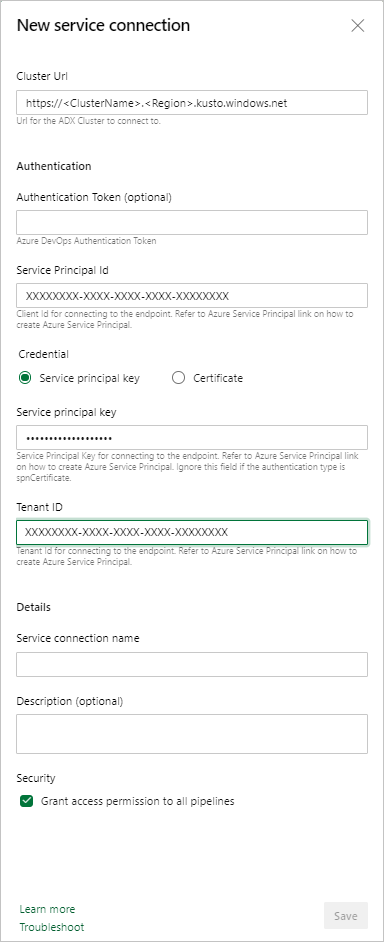
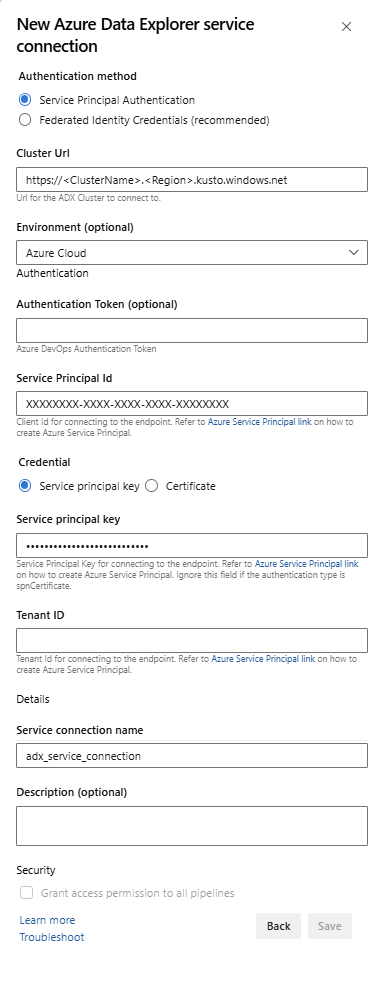
Added documentation for latest auth changes in ADO extension.

diff --git a/data-explorer/devops.md b/data-explorer/devops.md
@@ -10,6 +10,8 @@ ms.date: 05/05/2021
 
 # Azure DevOps Task for Azure Data Explorer
 
+> Note: ADX Extension tasks now support Workload Identity Federation(WIF) and ManagedIdentity(MI) authentication via Azure Resource Manager(ARM) and Kusto Service Endpoint. To read more about it, refer here. [WIF and MI support](#keyless-authentication-support-for-azure-data-explorer-ado-tasks)
+
 [Azure DevOps Services](https://azure.microsoft.com/services/devops/) provides development collaboration tools such as high-performance pipelines, free private Git repositories, configurable Kanban boards, and extensive automated and continuous testing capabilities. [Azure Pipelines](https://azure.microsoft.com/services/devops/pipelines/) is an Azure DevOps capability that enables you to manage CI/CD to deploy your code with high-performance pipelines that work with any language, platform, and cloud.
 [Azure Data Explorer - Pipeline Tools](https://marketplace.visualstudio.com/items?itemName=Azure-Kusto.PublishToADX) is the Azure Pipelines task that enables you to create release pipelines and deploy your database changes to your Azure Data Explorer databases. It's available for free in the [Visual Studio Marketplace](https://marketplace.visualstudio.com/).
 This extension includes 3 basic tasks:
@@ -114,6 +116,7 @@ The are three ways to run admin commands against cluster in a task.
 
             | Setting | Suggested value |
             |--|--|
+            | **Authentication Mathod** | Select Service Principal Authentication(SPA). or you can learn setting up Federated Identity Credentials(FIC) [here](#setting-up-federated-itentity-credentialsfic-authentication-in-kusto-service-endpoint). |
             | **Connection name** | Enter a name to identify this service endpoint |
             | **Cluster Url** | Value can be found in the overview section of your Azure Data Explorer Cluster in the Azure portal |
             | **Service Principal Id** | Enter the Microsoft Entra App ID (created as prerequisite) |
@@ -195,22 +198,68 @@ If required, create a task to run a query against a cluster and gate the release
 
 You have now completed creation of a release pipeline for deployment to pre-production.
 
+## Keyless authentication support for Azure Data Explorer ADO tasks
+
+### Setting up Federated Itentity Credentials(FIC) authentication in Kusto Service Endpoint
+
+ 1. Go to Project Settings -> Service connections -> New service connection -> Azure Data Explorer
+ 1. Create ADX Service Endpoint with WIF authentication, Enter your Cluster URL, Service Principal Id, TenantID in the Service connection appropriate Fields. Set "Service connection name" and save.
+ 1. Go to Azure portal to load your Microsoft Entra App of your service principal, which you put the service principal id in service connection of steps above.
+ 1. Open "Certificates & secrets" section and switch to "Federated credentials" tab.
+
+    ![credentials](media/devops/credential.jpg)
+ 1. Click "+ Add credential" button
+
+    ![credsetting](media/devops/credsetting.jpg)
+ 1. Select "Other issuer" for "Federated credential scenario".
+ 1. Put "<https://vstoken.dev.azure.com/{System.CollectionId}>" for "Issuer". You can get "System.CollectionId" value from ADO classic release pipeline "Initialize job"
+
+    ![collectionid](media/devops/collectionId.jpg)
+
+ 1. Or you can find it by open "<https://dev.azure.com/{ADO_Org_name}/_settings/organizationOverview>" in browser, and right click to launch the context menu, and click "View page source" and then look for "hostid".
+ 1. Put "sc://{ADO Org name}/{Project Name}/{Service Connection name}" for "Subject identifier".
+Example: "<https://msazure.visualstudio.com/One/>", "msazure" is ADO Org name, "One" is project name.
+"Service Connection name" is what you put at step 1 above.
+    > Note: If there is space in your service connection name you can put as it is in Federated Credential, for example: sc://msazure/one/My Kusto Service Connection
+ 1. Give a "Name" in "Credential details" and click "Add" button.
+
+### Setting up Federated Itentity Credentials(FIC) and Managed Service Identity(MSI) in Azure Resource Manager(ARM) Service Connection
+
+ 1. Choose new service connection under project settings, and select Azure Resource Manager.
+
+    ![new arm service connection](media/devops/armnew.png)
+
+ 1. Select Work load Identity Federation (WIF)(Automatic/Manual) OR Managed Identity as the authentication method.
+
+    >***Note: Currently Kusto Task supports only WIF (automatic/manual) or Managed Identity for ARM service connections.***
+
+    ![arm types](media/devops/armtypes.png)
+
+ 1. Automatic Workload Identity Fedreation(WIF) will publish details automatically in contrast to Maual WIF where you need to provide the details manually.
+
+    ![arm manuall](media/devops/armmanual.png)
+
+ 1. After filling the details, click on verify and save the service connection.
+
+***Read more about setting up MSI using ARM at [Azure Resource Manager(ARM) Service Connections](https://learn.microsoft.com/azure/devops/pipelines/library/connect-to-azure?view=azure-devops).***
+
 ## Yaml Pipeline configuration
 
 The tasks can be configured both via Azure DevOps Web UI (as shown above) and via Yaml code within the [pipeline schema](/azure/devops/pipelines/yaml-schema)
 
 ### Admin Command Sample Usage
 
-``` 
+```yaml
 steps:
-- task: Azure-Kusto.PublishToADX.PublishToADX.PublishToADX@1
+- task: Azure-Kusto.PublishToADX.PublishToADX.PublishToADX@4
   displayName: '<Task Name>'
   inputs:
+    targetType: 'inline'
     script: '<inline Script>'
     waitForOperation: true
     kustoUrls: '$(CONNECTIONSTRING):443?DatabaseName=""'
-    customAuth: true
-    connectedServiceName: '<Service Endpoint Name>'
+    authType: 'armserviceconn'
+    connectedServiceARM: '<ARM Service Endpoint Name>'
     serialDelay: 1000
   continueOnError: true
   condition: ne(variables['ProductVersion'], '') ## Custom condition Sample
@@ -218,11 +267,12 @@ steps:
 
 ### Query Sample Usage
 
-``` 
+```yaml
 steps:
-- task: Azure-Kusto.PublishToADX.ADXQuery.ADXQuery@1
+- task: Azure-Kusto.PublishToADX.ADXQuery.ADXQuery@4
   displayName: '<Task Display Name>'
   inputs:
+    targetType: 'inline'
     script: |  
      let badVer=
      RunnersLogs | where Timestamp > ago(30m)
@@ -245,7 +295,9 @@ steps:
      | extend ServiceConnectionString = strcat("#connect ", ServiceConnectionString)
      | where DeploymentRing == "$(DeploymentRing)"
     kustoUrls: 'https://<ClusterName>.kusto.windows.net?DatabaseName=<DataBaneName>'
-    customAuth: true
-    connectedServiceName: '<Service Endpoint Name>'
+    authType: 'kustoserviceconn'
+    connectedServiceName: '<kusto connection service name>'
+    minThreshold: '0'
+    maxThreshold: '10'
   continueOnError: true
 ```
